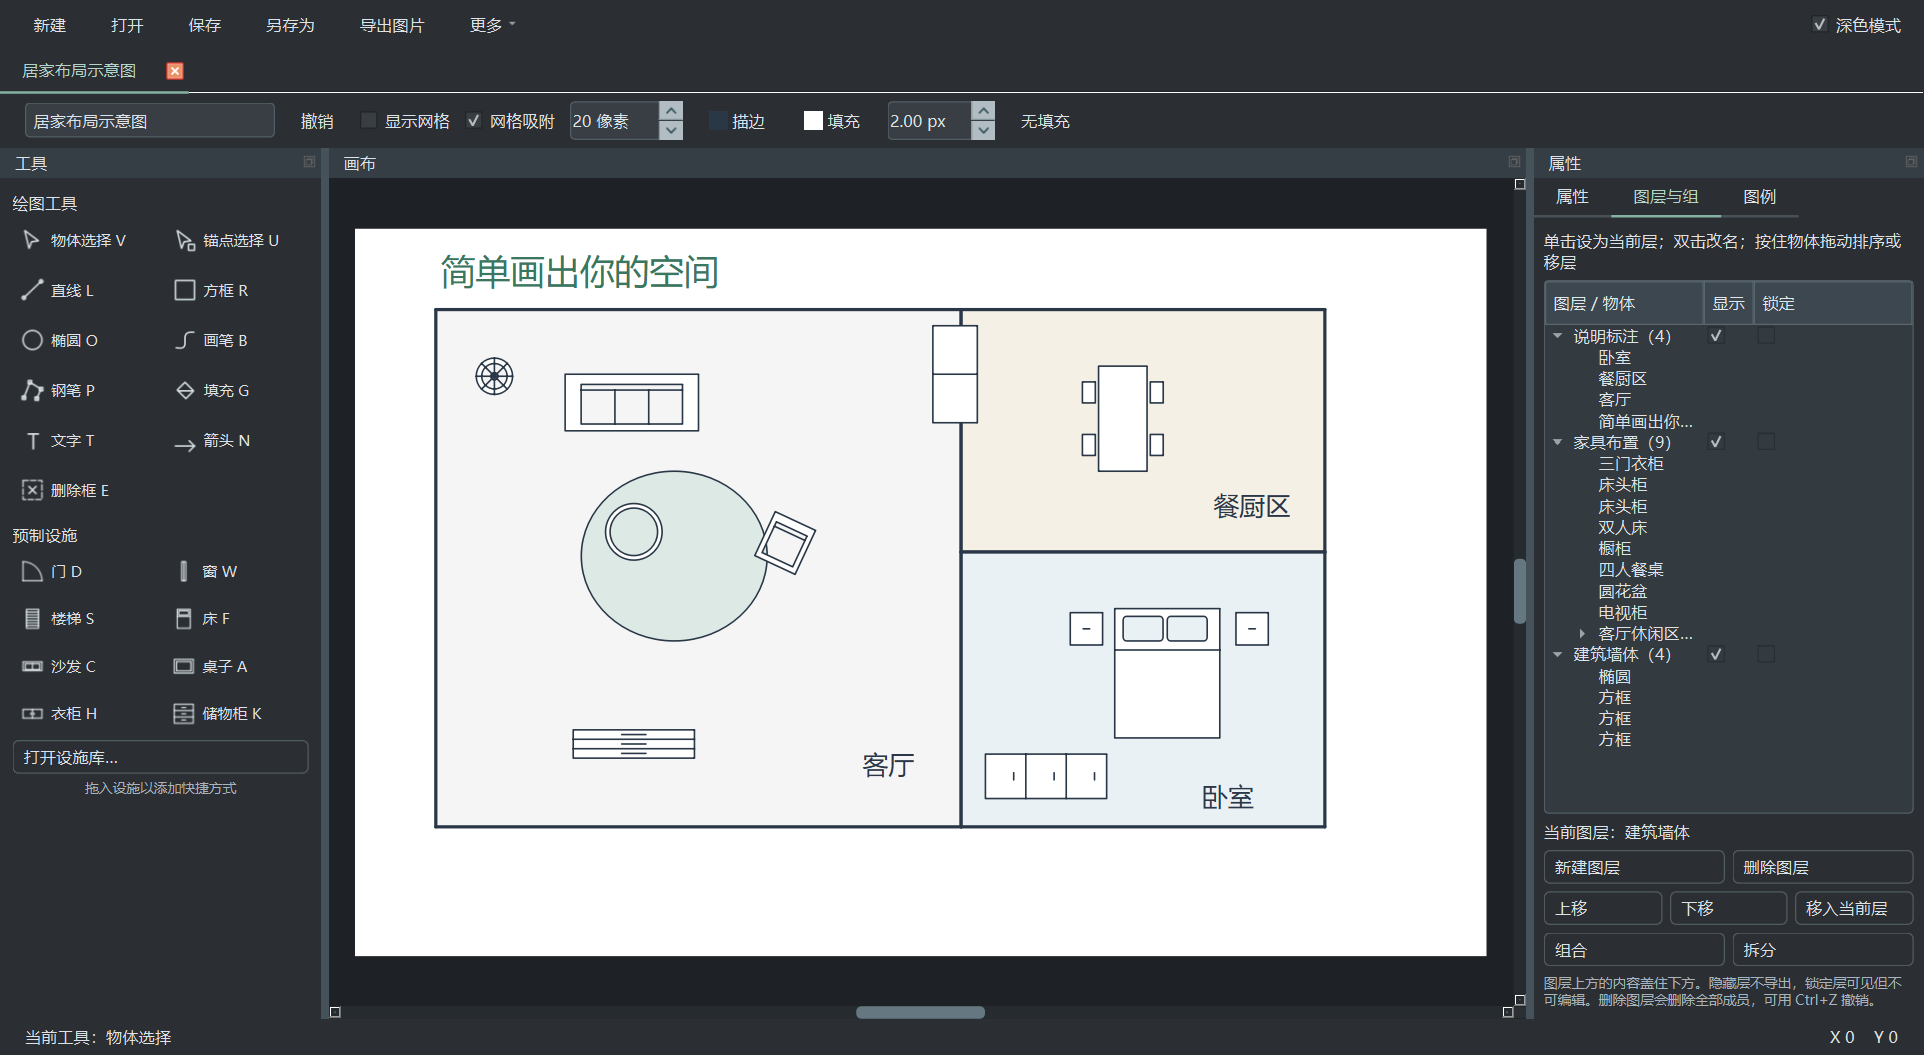
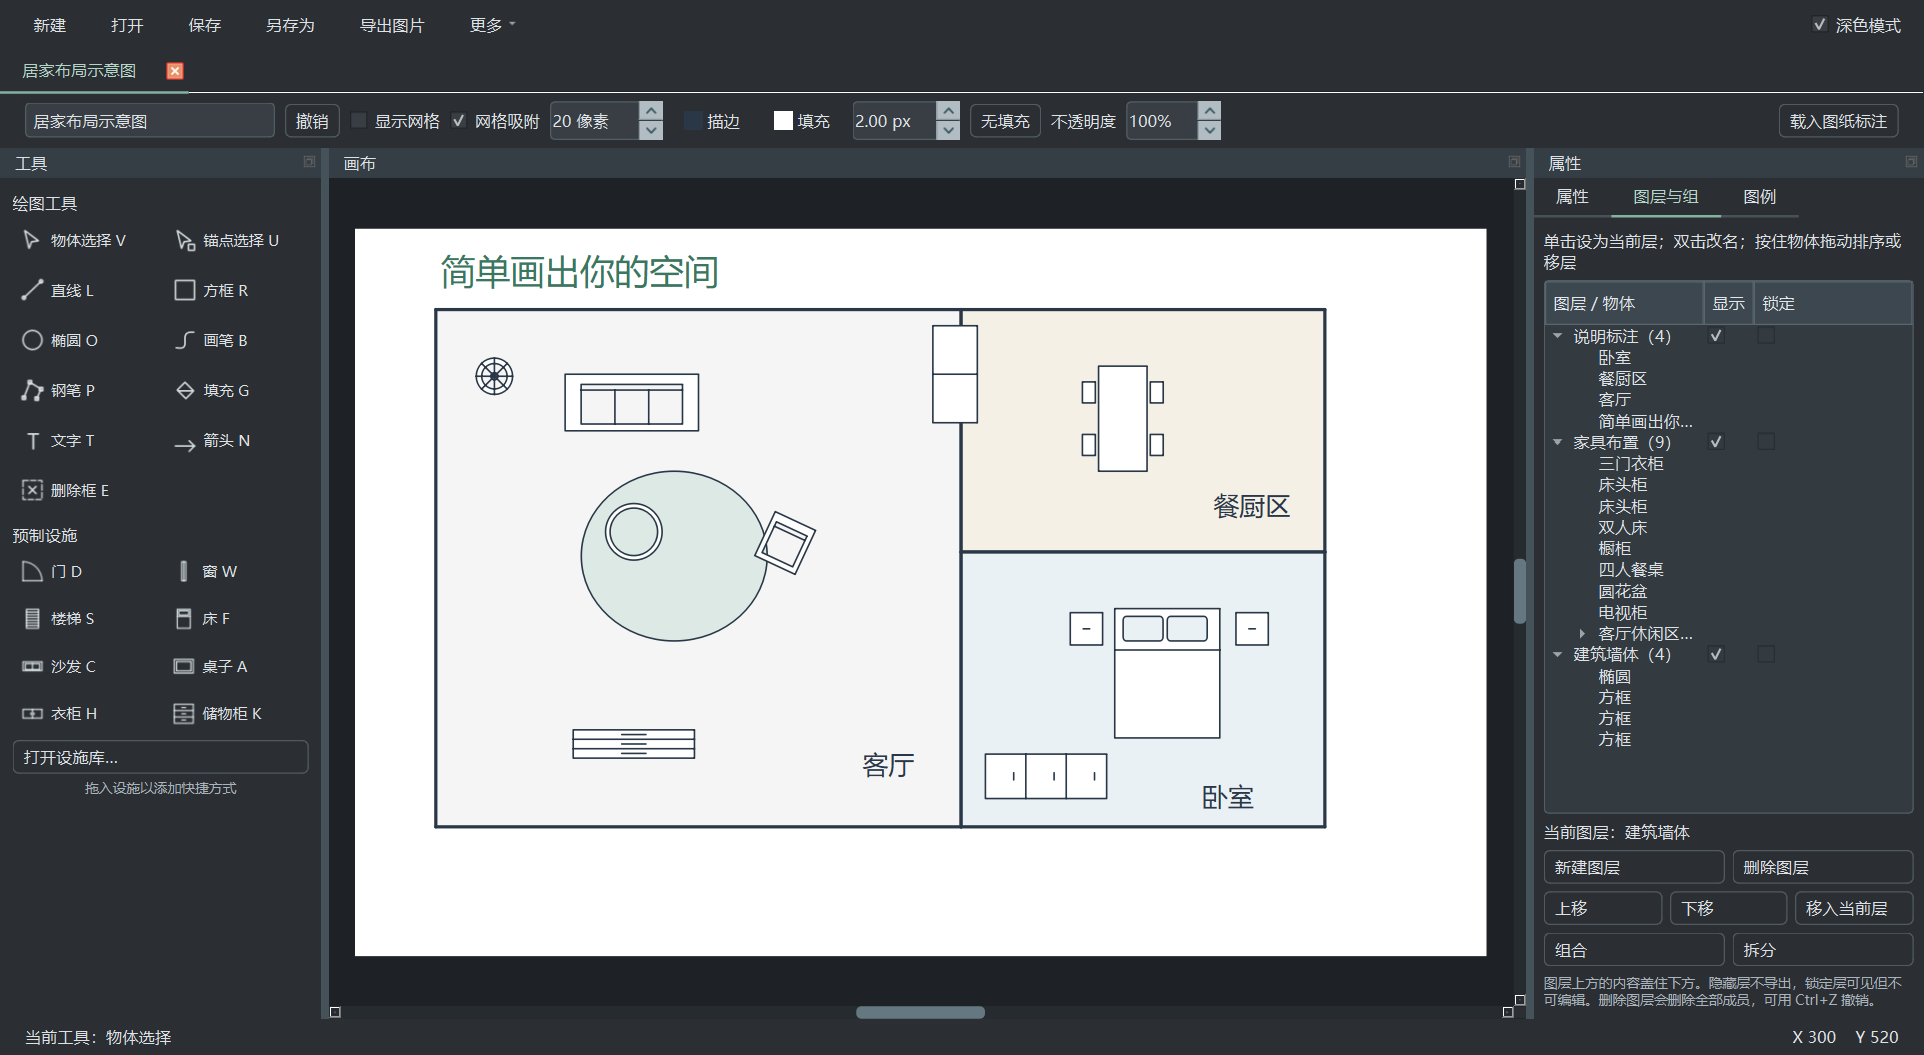
Release 1.0 with facility drag and object opacity

Changed region(s): [[0.1559, 0.091, 0.6549, 0.1517], [0.9356, 0.9706, 0.9979, 1.0], [0.9356, 0.091, 0.9979, 0.1213]]

diff --git a/main.py b/main.py
@@ -425,6 +425,17 @@ def line_label_rect(data):
 
 
 def draw_element(p, data, min_stroke=0):
+    opacity = data.get("opacity", 1)
+    if opacity == 1:
+        draw_element_body(p, data, min_stroke)
+        return
+    p.save()
+    p.setOpacity(p.opacity() * opacity)
+    draw_element_body(p, data, min_stroke)
+    p.restore()
+
+
+def draw_element_body(p, data, min_stroke):
     d = data
     if d["kind"] == "group":
         p.save()
@@ -649,7 +660,10 @@ class PlanItem(QGraphicsObject):
         if d["kind"] == "legend_box":
             rows = self.window.doc["legend"]
             if rows:
+                p.save()
+                p.setOpacity(p.opacity() * d.get("opacity", 1))
                 draw_legend_box(p, d, rows)
+                p.restore()
         else:
             draw_element(p, d)
         if (d["kind"] == "path" and (d.get("handles") or d.get("edge_handles")) and self.isSelected()
@@ -1596,13 +1610,39 @@ class PlanView(QGraphicsView):
         return super().viewportEvent(e)
 
     def dragEnterEvent(self, e):
-        self.window.dragEnterEvent(e)
+        if FacilityShortcuts.facility_key(e.mimeData()):
+            e.acceptProposedAction()
+        else:
+            self.window.dragEnterEvent(e)
 
     def dragMoveEvent(self, e):
-        self.window.dragEnterEvent(e)
+        if FacilityShortcuts.facility_key(e.mimeData()):
+            e.setAccepted(PAPER.contains(self.mapToScene(e.position().toPoint())))
+        else:
+            self.window.dragEnterEvent(e)
 
     def dropEvent(self, e):
-        self.window.dropEvent(e)
+        kind = FacilityShortcuts.facility_key(e.mimeData())
+        if not kind:
+            self.window.dropEvent(e)
+            return
+        raw = self.mapToScene(e.position().toPoint())
+        if PAPER.contains(raw):
+            pos = self.window.snap(raw)
+            data = self.window.styled_element(kind, pos.x(), pos.y(), *FACILITY_SIZES[kind])
+            if self.window.add(data):
+                e.acceptProposedAction()
+                return
+        e.ignore()
+
+
+def drag_facility(source, kind, icon):
+    mime = QMimeData()
+    mime.setData(FACILITY_MIME, kind.encode("utf-8"))
+    drag = QDrag(source)
+    drag.setMimeData(mime)
+    drag.setPixmap(icon.pixmap(48, 48))
+    drag.exec(Qt.DropAction.CopyAction)
 
 
 class FacilityList(QListWidget):
@@ -1610,12 +1650,30 @@ class FacilityList(QListWidget):
         item = self.currentItem()
         if item is None:
             return
-        mime = QMimeData()
-        mime.setData(FACILITY_MIME, item.data(Qt.ItemDataRole.UserRole).encode("utf-8"))
-        drag = QDrag(self)
-        drag.setMimeData(mime)
-        drag.setPixmap(item.icon().pixmap(48, 48))
-        drag.exec(Qt.DropAction.CopyAction)
+        drag_facility(self, item.data(Qt.ItemDataRole.UserRole), item.icon())
+
+
+class FacilityShortcutButton(QPushButton):
+    press_pos = None
+
+    def mousePressEvent(self, event):
+        if event.button() == Qt.MouseButton.LeftButton:
+            self.press_pos = event.position().toPoint()
+        super().mousePressEvent(event)
+
+    def mouseReleaseEvent(self, event):
+        self.press_pos = None
+        super().mouseReleaseEvent(event)
+
+    def mouseMoveEvent(self, event):
+        if (self.press_pos is not None and event.buttons() & Qt.MouseButton.LeftButton and
+                (event.position().toPoint() - self.press_pos).manhattanLength() >= QApplication.startDragDistance()):
+            self.press_pos = None
+            self.setDown(False)
+            drag_facility(self, self.property("iconKind"), self.icon())
+            event.accept()
+            return
+        super().mouseMoveEvent(event)
 
 
 class FacilityShortcuts(QFrame):
@@ -1739,8 +1797,8 @@ class MainWindow(QMainWindow):
         self.update_title()
         self.apply_theme(self.dark_mode.isChecked())
 
-    def button(self, text, callback, kind=None, shortcut=None, bar=False):
-        b = QPushButton(text)
+    def button(self, text, callback, kind=None, shortcut=None, bar=False, button_type=QPushButton):
+        b = button_type(text)
         b.setProperty("barButton", bar)
         if kind:
             b.setProperty("iconKind", kind)
@@ -1773,7 +1831,6 @@ class MainWindow(QMainWindow):
         more = self.button("更多", lambda: None, bar=True)
         menu = QMenu(more)
         for label, callback in [("批量保存", self.save_all), ("批量导出", self.export_all),
-                                ("载入文件名标注", self.add_file_name_label),
                                 ("快捷键一览", self.show_shortcuts), ("恢复布局", self.restore_workspace)]:
             menu.addAction(label, callback)
         more.setMenu(menu)
@@ -1796,13 +1853,14 @@ class MainWindow(QMainWindow):
         layout.addWidget(self.tabs)
         toolbar = QHBoxLayout()
         toolbar.setContentsMargins(20, 6, 20, 6)
-        toolbar.setSpacing(12)
+        toolbar.setSpacing(8)
         self.title_edit = QLineEdit(self.doc["title"])
-        self.title_edit.setFixedWidth(200)
+        self.title_edit.setMinimumWidth(120)
+        self.title_edit.setMaximumWidth(200)
         self.title_edit.setPlaceholderText("图纸名称")
         self.title_edit.editingFinished.connect(self.rename)
         toolbar.addWidget(self.title_edit)
-        toolbar.addWidget(self.button("撤销", self.undo, shortcut="Ctrl+Z", bar=True))
+        toolbar.addWidget(self.button("撤销", self.undo, shortcut="Ctrl+Z"))
         redo_action = QAction(self)
         redo_action.setShortcut("Ctrl+Y")
         redo_action.setShortcutContext(Qt.ShortcutContext.ApplicationShortcut)
@@ -1842,9 +1900,19 @@ class MainWindow(QMainWindow):
         self.no_stroke_button = self.button("无描边", self.clear_text_outline, bar=True)
         self.no_stroke_button.hide()
         toolbar.addWidget(self.no_stroke_button)
-        toolbar.addWidget(self.button("无填充", self.clear_fill, bar=True))
+        toolbar.addWidget(self.button("无填充", self.clear_fill))
+        toolbar.addWidget(QLabel("不透明度"))
+        self.opacity_spin = QSpinBox()
+        self.opacity_spin.setRange(0, 100)
+        self.opacity_spin.setSuffix("%")
+        self.opacity_spin.setKeyboardTracking(False)
+        self.opacity_spin.setFixedWidth(76)
+        self.opacity_spin.setToolTip("调整所选物体的不透明度")
+        self.opacity_spin.valueChanged.connect(self.change_opacity)
+        toolbar.addWidget(self.opacity_spin)
         self.refresh_colors()
         toolbar.addStretch()
+        toolbar.addWidget(self.button("载入图纸标注", self.add_file_name_label))
         layout.addLayout(toolbar)
         self.workspace = QMainWindow()
         self.workspace.setDockNestingEnabled(True)
@@ -2287,11 +2355,12 @@ class MainWindow(QMainWindow):
         buttons.clear()
         for key in self.facility_shortcuts:
             caption = NAMES[key] + (" " + TOOL_KEYS[key] if key in TOOL_KEYS else "")
-            button = self.button(caption, lambda checked=False, k=key: self.activate_tool(k), key, bar=True)
+            button = self.button(caption, lambda checked=False, k=key: self.activate_tool(k), key, bar=True,
+                                 button_type=FacilityShortcutButton)
             button.setProperty("toolButton", True)
             button.setContextMenuPolicy(Qt.ContextMenuPolicy.CustomContextMenu)
             button.customContextMenuRequested.connect(lambda pos, k=key, b=button: self.shortcut_menu(k, b.mapToGlobal(pos)))
-            button.setToolTip(caption + "；右键移除快捷方式")
+            button.setToolTip(caption + " · 左键拖到图纸 · 右键移除快捷方式")
             buttons.append(button)
         self.tool_columns = 0
 
@@ -2447,6 +2516,8 @@ class MainWindow(QMainWindow):
             parent = QTransform().scale(data["w"] / data["base_w"], data["h"] / data["base_h"]) * item_transform(data)
             for original in data["children"]:
                 child = copy.deepcopy(original)
+                if "opacity" in data:
+                    child["opacity"] = child.get("opacity", 1) * data["opacity"]
                 transform = item_transform(child) * parent
                 child.update(x=transform.dx(), y=transform.dy(), angle=0, layer=data["layer"], stack=data.get("stack", 1),
                              affine=[transform.m11(), transform.m12(), transform.m21(), transform.m22()])
@@ -2741,11 +2812,12 @@ class MainWindow(QMainWindow):
         layer = next(layer for layer in self.doc["layers"] if layer["id"] == self.active_layer)
         if layer["locked"] or not layer["visible"]:
             self.tool_label.setText("当前图层已锁定或隐藏，请在“图层与组”中切换图层")
-            return
+            return False
         data["layer"] = self.active_layer
         self.doc["items"].append(data)
         self.rebuild([data["id"]])
         self.commit()
+        return True
 
     def styled_element(self, *args):
         data = element(*args)
@@ -2923,6 +2995,18 @@ class MainWindow(QMainWindow):
             self.commit()
             self.selection_changed()
 
+    def change_opacity(self, value):
+        selected = self.scene.selectedItems()
+        if not selected:
+            return
+        for item in selected:
+            if value == 100:
+                item.data.pop("opacity", None)
+            else:
+                item.data["opacity"] = value / 100
+            item.update()
+        self.commit()
+
     def fill_at(self, pos):
         for item in self.scene.items():
             if not isinstance(item, PlanItem) or not item.isVisible() or not item.flags() & QGraphicsItem.GraphicsItemFlag.ItemIsSelectable:
@@ -3099,6 +3183,10 @@ class MainWindow(QMainWindow):
         self.finish_property_preview()
         selected = self.scene.selectedItems()
         self.view.viewport().update()
+        self.opacity_spin.blockSignals(True)
+        self.opacity_spin.setEnabled(bool(selected))
+        self.opacity_spin.setValue(round(100 * selected[0].data.get("opacity", 1)) if selected else 100)
+        self.opacity_spin.blockSignals(False)
         if self.side_tabs.currentIndex() == 1:
             ids = {i.data["id"] for i in selected}
             self.layer_tree.blockSignals(True)
@@ -3862,6 +3950,9 @@ def validate_items(items, *, legend_box=False, _depth=0, _ids=None, _budget=None
             raise ValueError("图形尺寸过小")
         if "fill" in d and (not isinstance(d["fill"], str) or not QColor(d["fill"]).isValid()):
             raise ValueError("填充颜色无效")
+        opacity = d.get("opacity", 1)
+        if type(opacity) not in (float, int) or not 0 <= opacity <= 1:
+            raise ValueError("不透明度无效")
         if "affine" in d:
             matrix = d["affine"]
             if (not isinstance(matrix, list) or len(matrix) != 4 or any(type(v) not in (int, float)
@@ -4032,7 +4123,7 @@ def apply_appearance(app, dark):
 def create_app():
     app = QApplication.instance() or QApplication(sys.argv)
     app.setApplicationName("EasyDrawFlat")
-    app.setApplicationVersion("2.9.1")
+    app.setApplicationVersion("1.0")
     app.setStyle("Fusion")
     apply_appearance(app, True)
     # Qt 自带对话框和标准按钮也使用中文。

diff --git a/tests/test_v27.py b/tests/test_v27.py
@@ -9,9 +9,9 @@ from unittest.mock import patch
 
 os.environ.setdefault("QT_QPA_PLATFORM", "offscreen")
 from PySide6.QtCore import Qt, QPointF, QPoint, QEvent
-from PySide6.QtGui import QMouseEvent, QDragEnterEvent, QDropEvent
+from PySide6.QtGui import QMouseEvent, QDragEnterEvent, QDropEvent, QImage
 from PySide6.QtTest import QTest
-from PySide6.QtWidgets import QAbstractItemView
+from PySide6.QtWidgets import QAbstractItemView, QPushButton
 from main import create_app, MainWindow, FACILITY_MIME, element, load_document
 from facilities import search_facilities
 
@@ -133,6 +133,69 @@ class Version27Test(unittest.TestCase):
         self.assertIn("双人床", results("chuang"))
         self.assertNotIn("平开窗", results("chuang"))
         self.assertEqual(results("g"), {"床头柜", "双抽床头柜", "双门衣柜", "三门衣柜", "四门衣柜", "推拉衣柜"})
+
+    def test_shortcut_drag_places_facility_on_canvas_and_click_selects_tool(self):
+        w = self.w
+        w.fit()
+        button = next(b for b in w.tool_groups[-1][1] if b.property("iconKind") == "bed")
+        QTest.mouseClick(button, Qt.MouseButton.LeftButton)
+        self.assertEqual(w.tool, "bed")
+        w.set_tool("select")
+        start = button.rect().center()
+        end = start + QPoint(36, 0)
+        with patch("main.QDrag") as drag:
+            QTest.mousePress(button, Qt.MouseButton.LeftButton, pos=start)
+            move = QMouseEvent(QEvent.Type.MouseMove, QPointF(end), QPointF(button.mapToGlobal(end)),
+                               Qt.MouseButton.NoButton, Qt.MouseButton.LeftButton, Qt.KeyboardModifier.NoModifier)
+            self.app.sendEvent(button, move)
+            QTest.mouseRelease(button, Qt.MouseButton.LeftButton, pos=end)
+            self.assertEqual(drag.call_count, 1)
+            mime = drag.return_value.setMimeData.call_args.args[0]
+        self.assertEqual(w.tool, "select")
+        pos = w.view.mapFromScene(QPointF(300, 300))
+        enter = QDragEnterEvent(pos, Qt.DropAction.CopyAction, mime, Qt.MouseButton.LeftButton, Qt.KeyboardModifier.NoModifier)
+        self.app.sendEvent(w.view.viewport(), enter)
+        drop = QDropEvent(QPointF(pos), Qt.DropAction.CopyAction, mime, Qt.MouseButton.LeftButton, Qt.KeyboardModifier.NoModifier)
+        self.app.sendEvent(w.view.viewport(), drop)
+        self.assertTrue(enter.isAccepted())
+        self.assertTrue(drop.isAccepted())
+        item, = w.doc["items"]
+        self.assertEqual((item["kind"], item["x"], item["y"]), ("bed", 300, 300))
+        w.undo()
+        self.assertEqual(w.doc["items"], [])
+
+    def test_opacity_roundtrips_and_exports_and_toolbar_has_requested_buttons(self):
+        w = self.w
+        buttons = {b.text(): b for b in w.findChildren(QPushButton)}
+        self.assertTrue(all(not buttons[name].property("barButton") for name in ("撤销", "无填充", "载入图纸标注")))
+        self.assertGreater(buttons["载入图纸标注"].x(), w.opacity_spin.x())
+        self.assertFalse(w.opacity_spin.isEnabled())
+        w.add(element("room", 100, 100, 210, 180, fill="#ff0000"))
+        w.opacity_spin.setValue(50)
+        self.assertEqual(w.doc["items"][0]["opacity"], 0.5)
+        root = Path(self.tmp.name)
+        png = root / "opacity.png"
+        w.export_to(png)
+        color = QImage(str(png)).pixelColor(300, 300)
+        self.assertEqual(color.red(), 255)
+        self.assertIn(color.green(), (127, 128))
+        self.assertIn(color.blue(), (127, 128))
+        svg = root / "opacity.svg"
+        w.export_to(svg)
+        self.assertIn('opacity="0.5"', svg.read_text(encoding="utf-8"))
+        edf = root / "opacity.edf"
+        w.save_to(str(edf))
+        self.assertEqual(load_document(edf)["items"][0]["opacity"], 0.5)
+        w.undo()
+        self.assertNotIn("opacity", w.doc["items"][0])
+        w.redo()
+        self.assertEqual(w.doc["items"][0]["opacity"], 0.5)
+        w.add(element("bed", 400, 100))
+        w.select_all()
+        w.group_selection()
+        w.opacity_spin.setValue(40)
+        w.ungroup_selection()
+        self.assertEqual(sorted(d["opacity"] for d in w.doc["items"]), [0.2, 0.4])
 
     def test_import_is_persistent_and_reference_box_embeds_entire_library(self):
         w = self.w

diff --git a/build.py b/build.py
@@ -7,7 +7,7 @@ import argparse
 
 ROOT = Path(__file__).resolve().parent
 parser = argparse.ArgumentParser(description="构建 EasyDrawFlat Windows 程序")
-parser.add_argument("--distpath", type=Path, default=ROOT / "dist" / "v2.9.1", help="程序输出目录")
+parser.add_argument("--distpath", type=Path, default=ROOT / "dist" / "v1.0", help="程序输出目录")
 args = parser.parse_args()
 sys.path.insert(0, str(ROOT))
 from main import create_app, icon

diff --git a/README.md b/README.md
@@ -4,12 +4,15 @@
 
 **由 gpt6.1sol 制作。**
 
-[下载 2.9.1 版](https://github.com/AAAjct/EasyDrawFlat/releases/latest) · [直接下载 Windows 程序](https://github.com/AAAjct/EasyDrawFlat/releases/download/v2.9.1/EasyDrawFlat.exe)
+[下载 1.0 版](https://github.com/AAAjct/EasyDrawFlat/releases/latest) · [直接下载 Windows 程序](https://github.com/AAAjct/EasyDrawFlat/releases/download/v1.0/EasyDrawFlat.exe)
 
 ![EasyDrawFlat 主界面](docs/images/main.png)
 
-## 2.9.1 更新
+## 1.0 更新
 
+- 「载入图纸标注」放在绘图工具栏最右侧。它与「撤销」「无填充」都有按钮边框。
+- 在左侧按住预制设施快捷方式并拖到图纸即可放置。也可以单击快捷方式，再到图纸上单击放置。
+- 选中物体后可调整 0–100% 不透明度，支持组合和多选，设置随图纸保存并应用于导出。
 - 修复切换图层显示或锁定状态时偶发的崩溃。
 
 ## 2.9 更新
@@ -91,7 +94,7 @@ python -m pip install pyinstaller
 python build.py
 ```
 
-程序生成在 `dist/v2.9.1/EasyDrawFlat.exe`。运行验证：
+程序生成在 `dist/v1.0/EasyDrawFlat.exe`。运行验证：
 
 ```powershell
 python -m unittest discover -s tests -v
